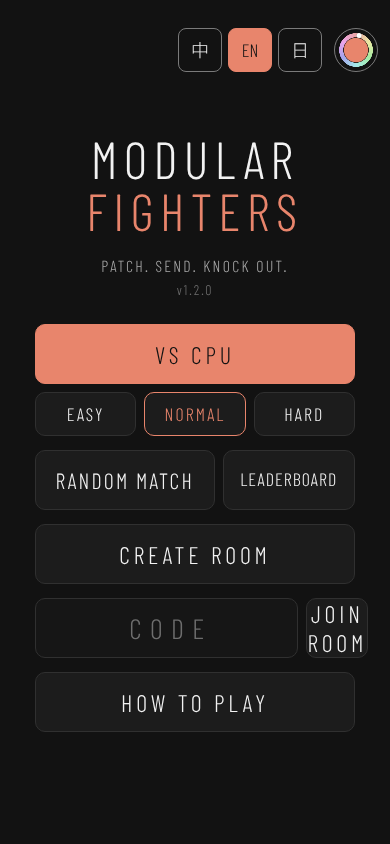
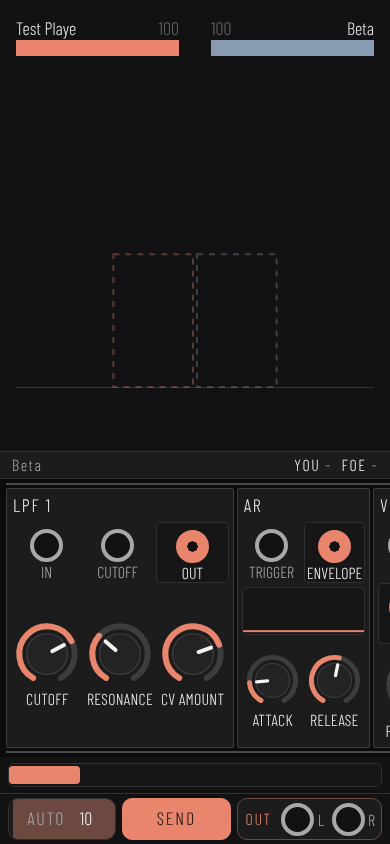
Modular Fighters v1.2.1: random match shows the opponent, not a room code
The room screen of a random match now shows the opponent's name and a
connection stage instead of the PeerJS code. The joining side retries up
to three times, the host sends hello at once if the guest is already
attached, and the whole handshake gives up after 40 s with an error
instead of hanging on the room screen.

Claude-Session: https://claude.ai/code/session_017AwLSca3iEBNz6khauxuVZ

diff --git a/modular-fighters/index.html b/modular-fighters/index.html
@@ -8,13 +8,13 @@
 <meta name="apple-mobile-web-app-capable" content="yes">
 <meta name="apple-mobile-web-app-status-bar-style" content="black-translucent">
 <meta name="apple-mobile-web-app-title" content="Modular Fighters">
-<link rel="manifest" href="manifest.webmanifest?v=20261027b">
+<link rel="manifest" href="manifest.webmanifest?v=20261027c">
 <title>Modular Fighters</title>
 <link rel="preconnect" href="https://fonts.googleapis.com">
 <link rel="preconnect" href="https://fonts.gstatic.com" crossorigin>
 <link href="https://fonts.googleapis.com/css2?family=Barlow+Condensed:wght@300;400&family=Noto+Sans+JP:wght@300&display=swap" rel="stylesheet">
 <!-- ?v= on the local css / js: bump the date on every change so Safari does not keep the old files -->
-<link rel="stylesheet" href="mf-patch-ui.css?v=20261027b">
+<link rel="stylesheet" href="mf-patch-ui.css?v=20261027c">
 <script>
   // Apply the saved theme before the first paint. Dark is the default for this game;
   // html[data-theme="light"] is the white theme. Same key as the toggle below (mf_theme).
@@ -261,6 +261,7 @@ html[lang="ja"] .cpurow button{font-size:17px;letter-spacing:0;white-space:nowra
   margin:8px 0 2px;
 }
 .wait{font-size:18px;letter-spacing:.16em;color:var(--fg2);margin:0 0 20px}
+.roomfoe{font-size:44px;line-height:1.1;letter-spacing:.08em;color:var(--acc);margin:8px 0 10px;max-width:320px;overflow-wrap:anywhere}
 
 /* ---------- setup ---------- */
 #setup .pane{gap:10px}
@@ -540,7 +541,7 @@ html[lang="ja"] .dlbtn.dlp{flex-basis:100%;font-size:18px;letter-spacing:0}   /*
     <div class="pane">
     <h1 class="title">MODULAR <b>FIGHTERS</b></h1>
     <p class="sub" data-i18n="tagline">PATCH. SEND. KNOCK OUT.</p>
-    <p class="ver" id="ver">v1.2.0</p>
+    <p class="ver" id="ver">v1.2.1</p>
     <button id="btn-cpu" class="big pri" type="button" data-i18n="vsCpu">VS CPU</button>
     <div id="cpurow" class="cpurow" role="group" aria-label="CPU difficulty">
       <button id="cpu-easy" type="button" data-cpu="easy" data-i18n="cpuEasy">EASY</button>
@@ -610,8 +611,9 @@ html[lang="ja"] .dlbtn.dlp{flex-basis:100%;font-size:18px;letter-spacing:0}   /*
 
   <section id="room" class="screen center">
     <div class="pane">
-    <p class="sub" data-i18n="roomCode">ROOM CODE</p>
+    <p class="sub" id="room-sub" data-i18n="roomCode">ROOM CODE</p>
     <div id="room-code" class="roomcode">----</div>
+    <div id="room-foe" class="roomfoe" hidden>?</div>
     <p id="room-wait" class="wait">WAITING FOR OPPONENT</p>
     <button id="btn-cancel" class="big" type="button" data-i18n="cancel">CANCEL</button>
     </div>
@@ -721,12 +723,12 @@ html[lang="ja"] .dlbtn.dlp{flex-basis:100%;font-size:18px;letter-spacing:0}   /*
 </div>
 
 <script src="https://unpkg.com/peerjs@1.5.4/dist/peerjs.min.js"></script>
-<script src="mf-audio.js?v=20261027b"></script>
-<script src="mf-patch-ui.js?v=20261027b"></script>
-<script src="mf-fight.js?v=20261027b"></script>
-<script src="mf-net.js?v=20261027b"></script>
-<script src="mf-firebase-config.js?v=20261027b"></script>
-<script src="mf-online.js?v=20261027b"></script>
+<script src="mf-audio.js?v=20261027c"></script>
+<script src="mf-patch-ui.js?v=20261027c"></script>
+<script src="mf-fight.js?v=20261027c"></script>
+<script src="mf-net.js?v=20261027c"></script>
+<script src="mf-firebase-config.js?v=20261027c"></script>
+<script src="mf-online.js?v=20261027c"></script>
 <script>
 (function () {
   'use strict';
@@ -771,6 +773,9 @@ html[lang="ja"] .dlbtn.dlp{flex-basis:100%;font-size:18px;letter-spacing:0}   /*
       joining: '加入中',
       connected: '對手已連線',
       ready: '對手已就緒',
+      connecting: '連線中',
+      opponentLabel: '對手',
+      err_online_peer: '連不上對手，請再試一次。',
       you: '你',
       foe: '對手',
       room: '房間',
@@ -866,6 +871,9 @@ html[lang="ja"] .dlbtn.dlp{flex-basis:100%;font-size:18px;letter-spacing:0}   /*
       joining: 'JOINING',
       connected: 'OPPONENT CONNECTED',
       ready: 'OPPONENT READY',
+      connecting: 'CONNECTING',
+      opponentLabel: 'OPPONENT',
+      err_online_peer: 'Could not connect to the opponent. Try again.',
       you: 'YOU',
       foe: 'FOE',
       room: 'ROOM',
@@ -961,6 +969,9 @@ html[lang="ja"] .dlbtn.dlp{flex-basis:100%;font-size:18px;letter-spacing:0}   /*
       joining: '参加中',
       connected: '相手が接続しました',
       ready: '相手の準備完了',
+      connecting: '接続中',
+      opponentLabel: '対戦相手',
+      err_online_peer: '相手に接続できません。もう一度お試しください。',
       you: 'あなた',
       foe: '相手',
       room: 'ルーム',
@@ -1031,7 +1042,7 @@ html[lang="ja"] .dlbtn.dlp{flex-basis:100%;font-size:18px;letter-spacing:0}   /*
       creditCode: 'プログラム：MADZINE'
     }
   };
-  var MF_VERSION = '1.2.0';   // shown under the tagline; +0.0.1 on EVERY push (user rule 2026-10-22), with the ?v= on the css / js links
+  var MF_VERSION = '1.2.1';   // shown under the tagline; +0.0.1 on EVERY push (user rule 2026-10-22), with the ?v= on the css / js links
   $('ver').textContent = 'v' + MF_VERSION;
   var LANG_KEY = 'mf_lang';
   var THEME_KEY = 'mf_theme';
@@ -1666,6 +1677,7 @@ html[lang="ja"] .dlbtn.dlp{flex-basis:100%;font-size:18px;letter-spacing:0}   /*
     MFFight.onKO(onKO);
   }
   function startMatch() {
+    clearOnlineTimer();
     show('match');
     ensureMounted();
     applySetup();
@@ -1741,6 +1753,7 @@ html[lang="ja"] .dlbtn.dlp{flex-basis:100%;font-size:18px;letter-spacing:0}   /*
     startMatch();
   }
   function goHome() {
+    clearOnlineTimer();
     inMatch = false;
     ended = false;
     MFFight.cpu.stop();
@@ -1781,6 +1794,7 @@ html[lang="ja"] .dlbtn.dlp{flex-basis:100%;font-size:18px;letter-spacing:0}   /*
   function onNet(type, data) {
     if (type === 'peer_joined') {
       if (mode === 'net' && !inMatch) {
+        if (online) { clearOnlineTimer(); }
         setWait('connected');
         sendHello();
         maybeStartNet();
@@ -1794,7 +1808,9 @@ html[lang="ja"] .dlbtn.dlp{flex-basis:100%;font-size:18px;letter-spacing:0}   /*
       return;
     }
     if (type === 'error') {
+      if (online && onlineJoining) return;        // joinOnline retries / fails on the promise
       if (mode === 'net' && !inMatch) {
+        clearOnlineTimer();
         MFNet.leave();
         mode = null;
         show('home');
@@ -1890,15 +1906,52 @@ html[lang="ja"] .dlbtn.dlp{flex-basis:100%;font-size:18px;letter-spacing:0}   /*
     foeChar = validChar(d.foeChar);
     roomCode = d.room;
     helloSent = false; helloGot = false;
-    $('room-code').textContent = d.room;
+    roomScreenMode(true);
     show('room');
+    armOnlineTimer();
     if (d.host) {
-      // our hosted room is already open; the opponent joins it
-      setWait('waiting');
+      // our hosted room is already open; the opponent joins it (it may already be attached)
+      if (MFNet.connected) { setWait('connected'); sendHello(); maybeStartNet(); }
+      else setWait('connecting');
     } else {
       MFNet.leave();
-      joinRoom(d.room);
+      joinOnline(d.room, 0);
     }
+  }
+  // the whole handshake (peer connection + hello both ways) must finish within this, or we give up
+  var ONLINE_CONNECT_MS = 40000, ONLINE_JOIN_TRIES = 3;
+  var onlineTimer = 0, onlineJoining = false;
+  function clearOnlineTimer() { clearTimeout(onlineTimer); onlineTimer = 0; onlineJoining = false; }
+  function armOnlineTimer() {
+    clearTimeout(onlineTimer);
+    onlineTimer = setTimeout(function () { onlineTimer = 0; onlineFail('online_peer'); }, ONLINE_CONNECT_MS);
+  }
+  function onlineFail(key) {
+    if (mode !== 'net' || inMatch) return;
+    clearOnlineTimer();
+    MFNet.leave();
+    mode = null; roomCode = null;
+    helloSent = false; helloGot = false; foeChar = null;
+    online = false; foeName = null;
+    show('home');
+    setMsg(errKey(key));
+  }
+  // guest side of a random match: the host's room is already open, so a failed attempt is retried
+  function joinOnline(code, attempt) {
+    onlineJoining = true;
+    setWait('connecting');
+    MFNet.join(code, onNet).then(function () {
+      onlineJoining = false;
+      if (mode !== 'net' || !online) return;
+      setWait('connected');
+      sendHello();
+      maybeStartNet();
+    }).catch(function (err) {
+      onlineJoining = false;
+      if (mode !== 'net' || !online || inMatch) return;
+      if (attempt + 1 < ONLINE_JOIN_TRIES) { setTimeout(function () { if (mode === 'net' && online && !inMatch) joinOnline(code, attempt + 1); }, 1000); return; }
+      onlineFail(err && err.message === 'network' ? 'network' : 'online_peer');
+    });
   }
 
   // ---------- player name ----------
@@ -2002,7 +2055,15 @@ html[lang="ja"] .dlbtn.dlp{flex-basis:100%;font-size:18px;letter-spacing:0}   /*
     openSetup(function () { createRoom(); });
   });
 
+  // the room screen: a code to share (manual rooms) or the opponent's name (random match, v1.2.1)
+  function roomScreenMode(isOnline) {
+    $('room-sub').textContent = t(isOnline ? 'opponentLabel' : 'roomCode');
+    $('room-code').hidden = !!isOnline;
+    $('room-foe').hidden = !isOnline;
+    if (isOnline) $('room-foe').textContent = foeName || '?';
+  }
   function createRoom() {
+    roomScreenMode(false);
     $('room-code').textContent = '----';
     setWait('waiting');
     show('room');
@@ -2019,6 +2080,7 @@ html[lang="ja"] .dlbtn.dlp{flex-basis:100%;font-size:18px;letter-spacing:0}   /*
   }
 
   $('btn-cancel').addEventListener('click', function () {
+    clearOnlineTimer();
     MFNet.leave();
     mode = null;
     roomCode = null;
@@ -2049,6 +2111,7 @@ html[lang="ja"] .dlbtn.dlp{flex-basis:100%;font-size:18px;letter-spacing:0}   /*
   });
 
   function joinRoom(code) {
+    roomScreenMode(false);
     $('room-code').textContent = code;
     setWait('joining');
     show('room');

diff --git a/modular-fighters/HANDOFF_NEXT_SESSION.md b/modular-fighters/HANDOFF_NEXT_SESSION.md
@@ -22,7 +22,7 @@
 - 角色六個（2026-10-24）：osc、tatata5 原圖面右；moddict、mad、hataken、zhyper 原圖面左。**任一角色可站左或右**：自己永遠左、對手永遠右；原圖面向與站位不同時在去背階段水平鏡像（2026-10-21 使用者裁示，取代舊「不鏡像、選角決定左右」）。CPU 對手＝其他五個隨機；連線兩人可選同角色。來源是下載資料夾的「X motion.mp4」2100×2100，轉 600×600 12fps h264
 
 ## 目前狀態（全部已 commit 並 push）
-- 版本 v1.2.0（2026-10-27 配對握手順序治本：match 記錄先寫再搶對方；名字每次都問；2026-10-27 填入 Firebase databaseURL；2026-10-26 隨機對戰＋玩家名稱＋排行榜；2026-10-25 HATAKEN 攻擊力 1.3 倍，**隱藏設定、說明頁不寫**；2026-10-24 加 HATAKEN、Z_Hyper 兩角色，共六個）。最新 commit 見 git log：2026-10-22 橫向版面定案與 iPhone Safari 三個實機問題（`31daf78`…），2026-10-21 四角色＋鏡像（`768c54d`、`192710f`），更早見 DEVLOG。
+- 版本 v1.2.1（2026-10-27 隨機對戰房間畫面不顯示房號、改顯示對手名與連線階段，加入方重試 3 次、整體 40 秒逾時回首頁；v1.2.0 配對握手順序治本：match 記錄先寫再搶對方；名字每次都問；2026-10-27 填入 Firebase databaseURL；2026-10-26 隨機對戰＋玩家名稱＋排行榜；2026-10-25 HATAKEN 攻擊力 1.3 倍，**隱藏設定、說明頁不寫**；2026-10-24 加 HATAKEN、Z_Hyper 兩角色，共六個）。最新 commit 見 git log：2026-10-22 橫向版面定案與 iPhone Safari 三個實機問題（`31daf78`…），2026-10-21 四角色＋鏡像（`768c54d`、`192710f`），更早見 DEVLOG。
 - 工作樹乾淨。
 
 ## 已落地的使用者需求（全部保留，禁改）
@@ -54,7 +54,7 @@
 - 參考既有 token 與主題切換（WHITE／BLACK）與 HUE 色圈，新圖要能在兩個主題下成立，或由使用者裁示是否保留 HUE。
 
 ## 未驗證項目（全部只在無頭瀏覽器測過）
-- 真實兩台裝置連線對戰；隨機對戰 v1.1.9 實機第一次測到「一方看到提示、另一方沒看到」（握手順序 bug，v1.2.0 治本，以記憶體假 Firebase 伺服器模擬三種延遲 × 接受／拒絕／三人 全過），**v1.2.0 兩台實機尚未重測**
+- 真實兩台裝置連線對戰；隨機對戰 v1.1.9 實機第一次測到「一方看到提示、另一方沒看到」（握手順序 bug，v1.2.0 治本，以記憶體假 Firebase 伺服器模擬三種延遲 × 接受／拒絕／三人 全過），v1.2.0 實機重測：雙方都收到提示並接受，但停在房間畫面（PeerJS 連線未建立或 hello 未到）；v1.2.1 加了階段顯示與逾時，**兩台實機 PeerJS 連線（含手動房號模式）從未驗證成功過**，下一步看停在哪個階段
 - 真實 iPhone／iPad Safari：多點、安全區、加入主畫面後的全螢幕、iPad 往下滑退出全螢幕是否已被擋住。13 mini 上的橫向觸控、語言鈕、直式 footer 已由使用者實機確認
 - 真實相機／相簿匯入背景
 - 分頁隱藏時 CPU 閒置攻擊的跳過策略

diff --git a/DEVLOG.md b/DEVLOG.md
@@ -2,6 +2,12 @@
 
 ## 2026-10-27
 
+### Modular Fighters v1.2.1：隨機對戰房間畫面去掉房號、連線階段與逾時
+
+- 使用者 v1.2.0 實機：雙方都跳提示並接受，但畫面停在房間編號不開打。隨機對戰本來就不該讓玩家看到房號（房號是手動房間模式的東西），`startOnlineMatch` 改走 `roomScreenMode(true)`：標題「對手」、大字顯示對手名字、下方一行連線階段（連線中 / 對手已連線 / 對手已就緒），手動建房與加入維持房號顯示
+- 停住的真因還不知道（PeerJS 資料通道沒建立、或 hello 沒到）。這一版先讓它不會卡死：房主端若對手早已接上（`MFNet.connected`）直接送 hello；加入端 `joinOnline` 失敗自動重試最多 3 次（房主的房間一直開著，重試有意義），`onNet` 的 error 分支在線上加入中不再搶先回首頁；整個握手 40 秒內沒完成兩邊都回首頁顯示「連不上對手」。階段文字就是下次實機回報用的診斷線索
+- 驗證：無頭流程新增房主等待狀態（房號隱藏、顯示 Alpha、CONNECTING）與加入端第一次失敗第二次成功（join 被呼叫兩次、進入對戰、狀態列顯示 Beta），零錯誤。**兩台手機之間的 PeerJS 連線（含原本的手動房號模式）至今沒有實機驗證成功過**，這是下一個要釐清的點
+
 ### Modular Fighters v1.2.0：配對握手順序治本、名字每次都問
 
 - 使用者兩台實機第一次測：一方看到「找到對手」並按對戰，另一方完全沒收到提示。根因在 `mf-online.js` 的 `pair()` 順序：最早的玩家先用 transaction 搶第二位的 `match` 欄位，**之後**才寫 `mf/matches/<mid>` 記錄。第二位的自身條目監聽在 `match` 一落地就去讀記錄，讀到空的就當配對已死、把自己的 `match` 清掉回到等待，於是永遠不會跳提示；第一位則卡在「等待對方確認」。修法：記錄先寫、再搶人、搶輸就刪記錄；`openMatch` 讀不到記錄改為每 1.5 秒重試 4 次才放棄；讀到已有 `declined` 的記錄直接回等待不跳提示

diff --git a/modular-fighters/SPEC.md b/modular-fighters/SPEC.md
@@ -157,7 +157,9 @@ window.MFNet  (copy architecture from ../sessionguide-app.html: PeerJS 1.5.4 fro
    also editable in the help sheet; a different name = a fresh leaderboard record since the key is the name), then the usual setup, then a CPU match starts AND the player enters the queue (MFNet.create hosts a room,
    MFOnline.enqueue registers it; status line shows IN QUEUE). "matched" -> prompt "Opponent found: NAME, leave this
    match?" FIGHT = accept, KEEP PLAYING CPU = decline (back of the queue). "start" -> the CPU match is dropped, the
-   room screen shows, the host waits for the guest (who joins the room); hello carries {char, name}; names go on the
+   room screen shows WITHOUT a code (v1.2.1: "OPPONENT" + the foe name + a stage line CONNECTING / OPPONENT CONNECTED /
+   OPPONENT READY), the host waits for the guest (who joins the room, up to 3 attempts); the whole handshake has a 40 s
+   limit, after which both go home with err_online_peer. hello carries {char, name}; names go on the
    HP bars (MFFight.setNames) and the status line. KO in an online match -> MFOnline.reportResult (each side its own)
    and a LEADERBOARD button on the overlay. HOME leaves the queue. CPU matches never count.
 2. Match: MFPatchUI shows randomModules(10). SEND -> patch=getPatch(); power=score(patch); if power>0: MFAudio.play("me",patch); MFFight.attack("me",power); MFNet.send(attack). Always: setModules(randomModules(10)).
